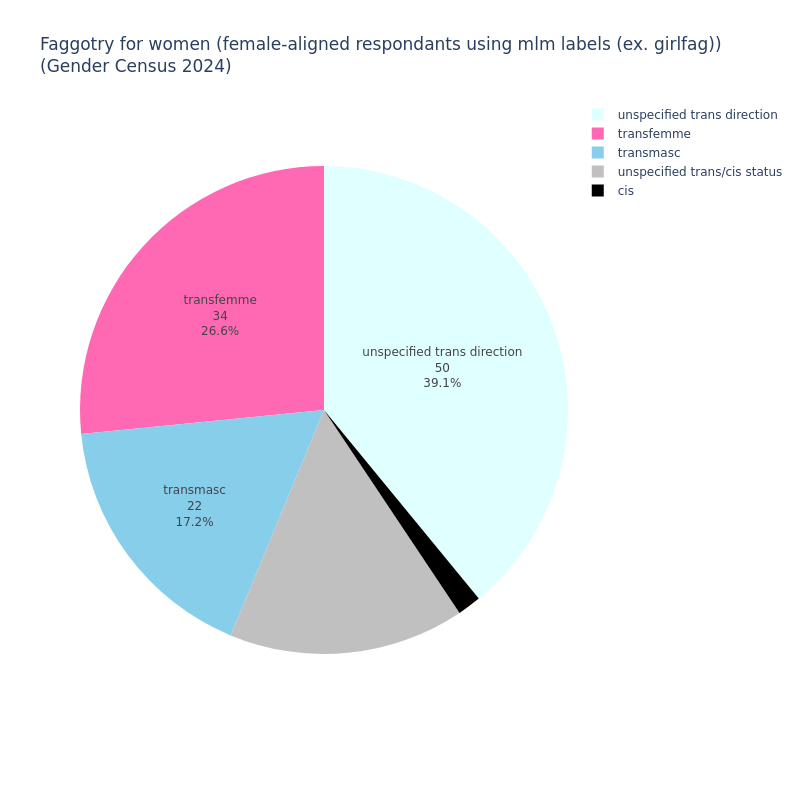
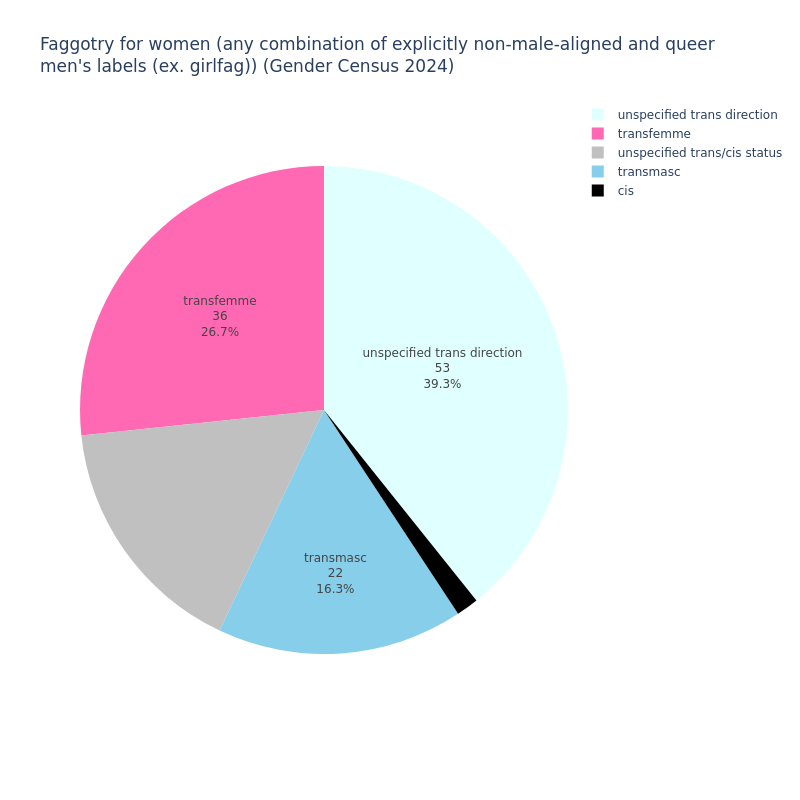
update chart titles

diff --git a/visualisation/vis_utils/import_data.py b/visualisation/vis_utils/import_data.py
@@ -96,6 +96,6 @@ folders = {
 
 titles = {
     "write_ins_intersections": "Intersectional labels written in (out of 48k total respondants) ",
-    "lesbianism_for_men": "Lesbianism for men (male-aligned respondants using wlw labels (ex. boydyke)) <br>",
-    "faggotry_for_women": "Faggotry for women (female-aligned respondants using mlm labels (ex. girlfag)) <br>",
+    "lesbianism_for_men": "Lesbianism for men (any combination of explicitly non-female-aligned and queer <br>women's labels (ex. boydyke)) ",
+    "faggotry_for_women": "Faggotry for women (any combination of explicitly non-male-aligned and queer <br>men's labels (ex. girlfag)) ",
 }
